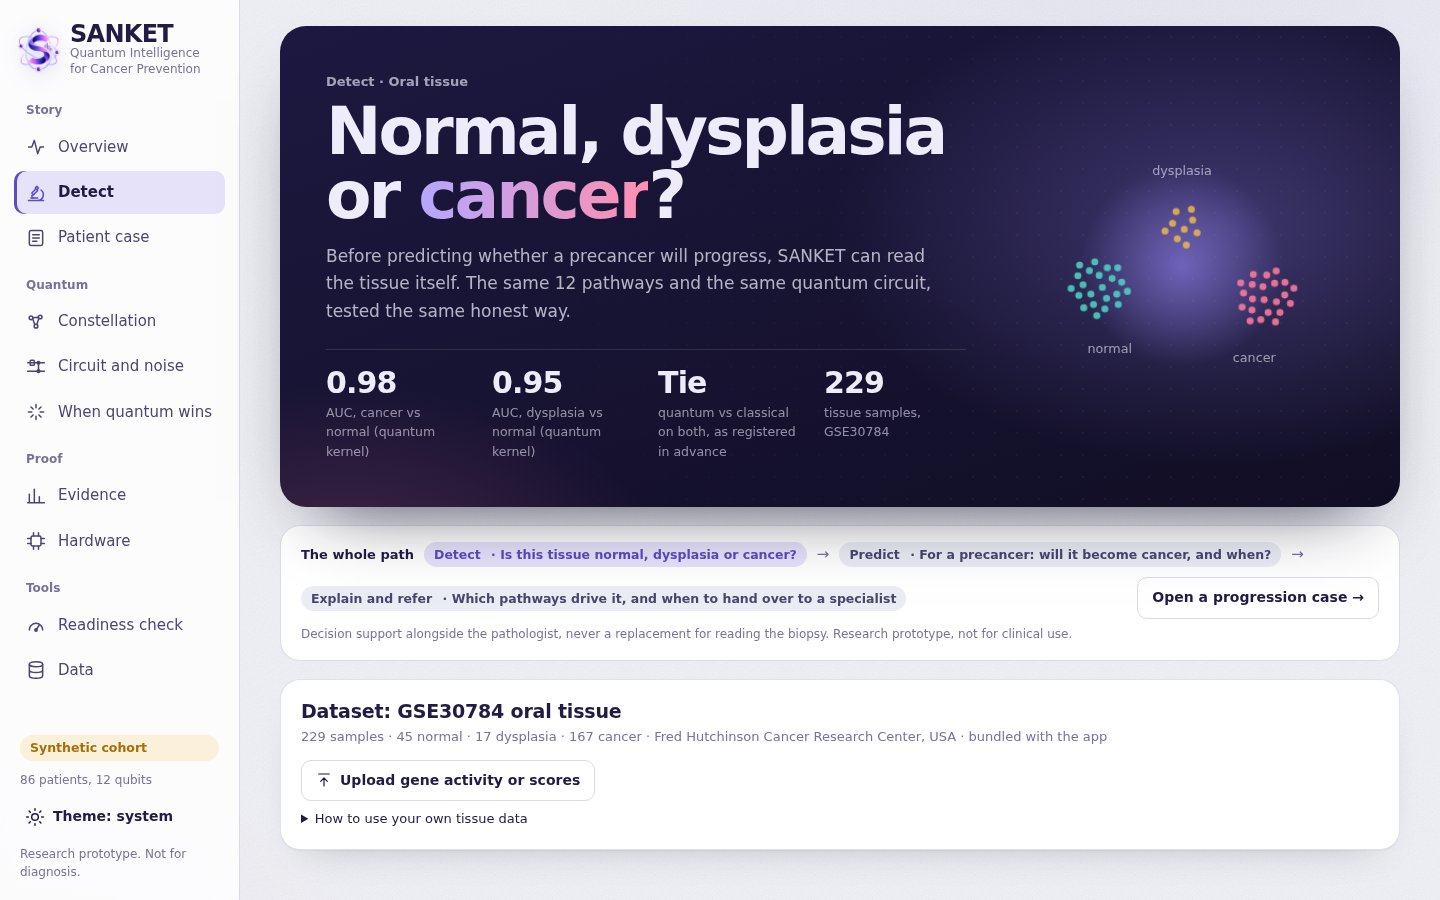
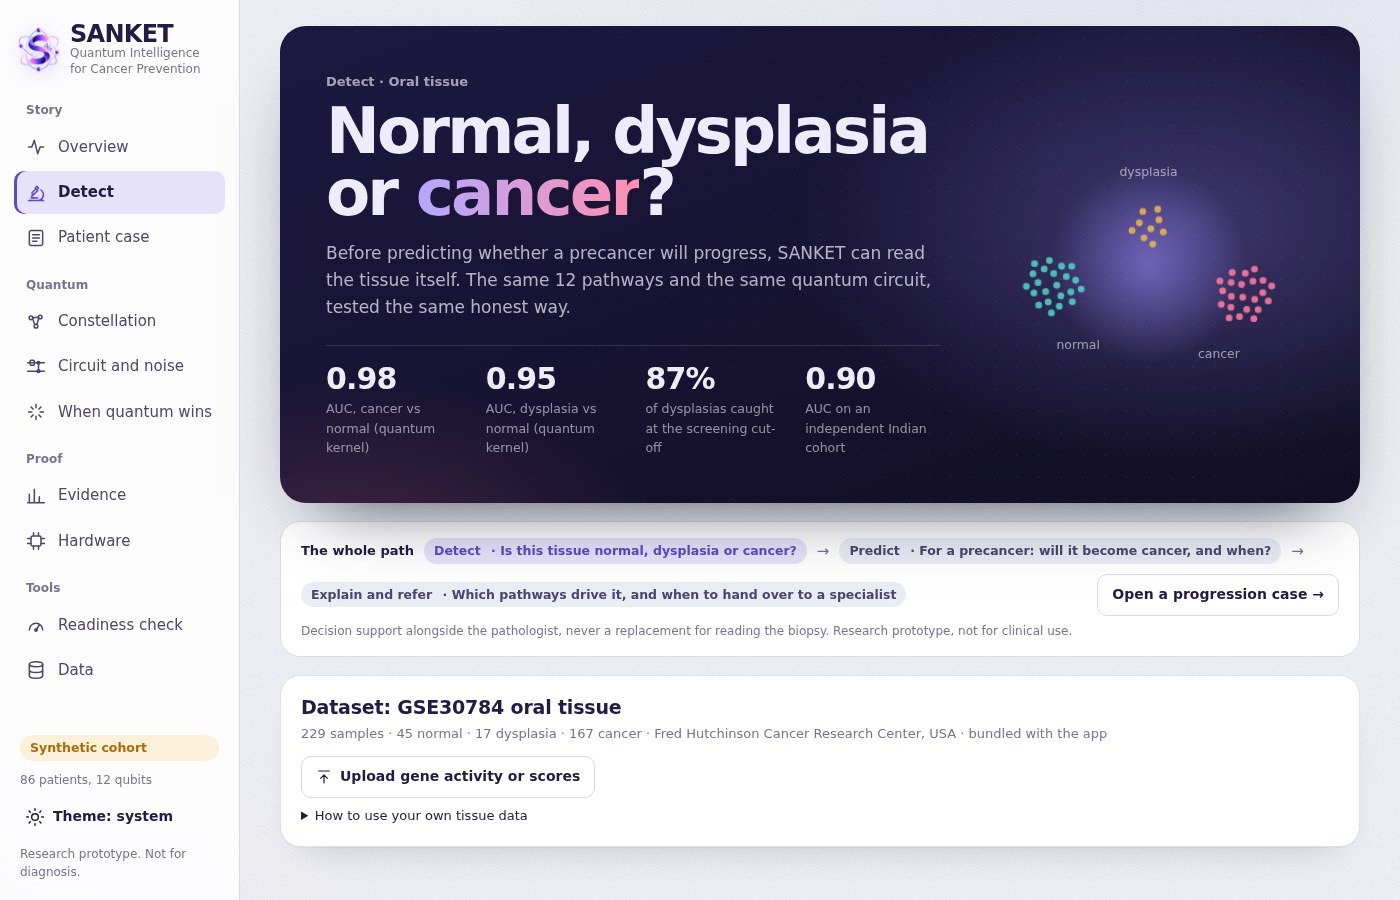
Detect: show declared amendments A1–A3 (screening cut-off, corrected Indian check, class weighting); update README and screenshots

diff --git a/web/src/views/Detect.tsx b/web/src/views/Detect.tsx
@@ -34,6 +34,16 @@ interface DxData {
   genes?: { n: number; coverage: { key: string; found: number; size: number }[] }; // set when scored here from gene activity
 }
 
+type Metrics = { auc: number; sensitivity: number; specificity: number; ppv: number | null; npv: number | null };
+type ModelSet = Record<string, Metrics>;
+/** Declared amendments (docs/osf_oral_diagnosis.md): A2 screening cut-off, A3 class weighting, A1 corrected external check. */
+const SCR = (Object.values(detect.tasks)[0] as unknown as { screening?: ModelSet }).screening
+  ? (Object.fromEntries(Object.entries(detect.tasks).map(([k, t]) => [k, (t as unknown as { screening: ModelSet }).screening])) as Record<string, ModelSet>)
+  : null;
+const BAL = (detect.tasks.oral_cancer_dysplasia as unknown as { balanced?: ModelSet }).balanced ?? null;
+const EXT = (detect.external as unknown as { corrected?: { models: Record<string, Metrics & { auc_ci: [number, number] }>; biology: { pathway: string; train: number; external: number; same: boolean }[]; agree: number } }).corrected ?? null;
+const TARGET = (detect as unknown as { screeningTarget?: number | null }).screeningTarget ?? 0.9;
+
 const BUNDLED: DxData = {
   name: `${detect.source.accession} oral tissue`, source: `${detect.source.institute}, ${detect.source.country}`, bundled: true,
   samples: detect.samples as Sample[], edges: detect.edges as [number, number][], pathways: detect.pathways,
@@ -231,8 +241,8 @@ export default function Detect() {
         stats={data.bundled ? [
           { value: T.oral_cancer_normal.models.proj.auc.toFixed(2), label: "AUC, cancer vs normal (quantum kernel)" },
           { value: T.oral_dysplasia_normal.models.proj.auc.toFixed(2), label: "AUC, dysplasia vs normal (quantum kernel)" },
-          { value: "Tie", label: "quantum vs classical on both, as registered in advance" },
-          { value: S.length, label: `tissue samples, ${detect.source.accession}` },
+          { value: SCR ? pct(SCR.oral_dysplasia_normal.proj.sensitivity) : "Tie", label: SCR ? "of dysplasias caught at the screening cut-off" : "quantum vs classical on both, as registered in advance" },
+          { value: EXT ? EXT.models.proj.auc.toFixed(2) : S.length, label: EXT ? "AUC on an independent Indian cohort" : `tissue samples, ${detect.source.accession}` },
         ] : [
           { value: S.length, label: "samples in your dataset" },
           ...shown.map((d) => ({ value: counts[d], label: d === "u" ? "unlabelled, to estimate" : NAME[d].toLowerCase() })),
@@ -384,7 +394,7 @@ export default function Detect() {
                   </div>
                 </>
               ) : <p className="small muted">Simulating…</p>}
-              <div className="tier tier-intermediate" style={{ marginTop: 10 }}><b>Read this before using pasted scores</b>Scores must be on this dataset's scale: ssGSEA pathway scores standardised with this dataset's means, from the same array type. A sample from another platform or scored on its own will land in the wrong place; the independent check below shows how badly models transfer across platforms. Illustrative only, never a diagnosis.</div>
+              <div className="tier tier-intermediate" style={{ marginTop: 10 }}><b>Read this before using pasted scores</b>Scores must be on this dataset's scale: ssGSEA pathway scores standardised with this dataset's means, from the same array type. A sample from another platform or another dataset's scale will land in the wrong place; the independent check below shows how much the scale matters. Illustrative only, never a diagnosis.</div>
             </div>
           </div>
         ) : <p className="small muted" style={{ margin: 0 }}>Click <b>Start from {s.id}</b> to copy the selected sample's scores into sliders, then move them: for example raise inflammation and EMT in a normal sample and watch its neighbours change.</p>}
@@ -418,14 +428,75 @@ export default function Detect() {
             </div>
             <div className="grid" style={{ gap: 6, marginTop: 10 }}>
               <p className="small" style={{ margin: 0 }}><b>Cancer vs normal</b> works as a ranking and as a yes/no call, for every model. It checks that the pipeline works; nobody expected quantum to win it.</p>
-              <p className="small" style={{ margin: 0 }}><b>Dysplasia vs normal</b> ranks well (AUC {T.oral_dysplasia_normal.models.proj.auc.toFixed(2)}), but at the default threshold the quantum model catches only {pct(T.oral_dysplasia_normal.models.proj.sensitivity)} of dysplasias. A screening threshold set for sensitivity would be needed, and is planned as a declared amendment.</p>
-              <p className="small" style={{ margin: 0 }}><b>Cancer vs dysplasia</b> is not usable yet: with {T.oral_cancer_dysplasia.positives} cancers against {T.oral_cancer_dysplasia.n - T.oral_cancer_dysplasia.positives} dysplasias, every model labels nearly all dysplasias as cancer (quantum specificity {pct(T.oral_cancer_dysplasia.models.proj.specificity)}).</p>
+              <p className="small" style={{ margin: 0 }}><b>Dysplasia vs normal</b> ranks well (AUC {T.oral_dysplasia_normal.models.proj.auc.toFixed(2)}), but at the default threshold the quantum model catches only {pct(T.oral_dysplasia_normal.models.proj.sensitivity)} of dysplasias.{SCR ? <> With the declared screening cut-off it catches <b>{pct(SCR.oral_dysplasia_normal.proj.sensitivity)}</b> and still clears {pct(SCR.oral_dysplasia_normal.proj.specificity)} of normal tissue (below).</> : " A screening threshold set for sensitivity is planned as a declared amendment."}</p>
+              <p className="small" style={{ margin: 0 }}><b>Cancer vs dysplasia</b> is the hard boundary: with {T.oral_cancer_dysplasia.positives} cancers against {T.oral_cancer_dysplasia.n - T.oral_cancer_dysplasia.positives} dysplasias, every model labels nearly all dysplasias as cancer at the default settings (quantum specificity {pct(T.oral_cancer_dysplasia.models.proj.specificity)}).{BAL ? <> Weighting the two classes equally lifts the kernel models to AUC {BAL.proj.auc.toFixed(2)} (exploratory, below).</> : ""}</p>
             </div>
           </Reveal>
 
+          {SCR && (
+            <Reveal className="panel">
+              <div className="row"><div className="h2">Declared amendments</div><span className="spacer" /><span className="chip chip-grey">Written before they were run</span></div>
+              <p className="small" style={{ marginTop: 0 }}><b>A2 · Screening cut-off.</b> In screening, missing a precancer is worse than a false alarm. Within each training fold the cut-off is set to catch at least {pct(TARGET)} of positives on the training samples, then applied unchanged to the held-out fold; the same rule as SANKET's progression referral. Same folds as above.</p>
+              <div className="scroll-x">
+                <table className="table">
+                  <thead><tr><th>Task</th><th>Model</th><th>Sensitivity</th><th>Specificity</th><th>NPV</th><th>PPV</th></tr></thead>
+                  <tbody>
+                    {(Object.keys(T) as (keyof typeof T)[]).flatMap((key) => (["proj", "rbf"] as const).map((m, j) => {
+                      const v = SCR[key][m];
+                      return (
+                        <tr key={key + m}>
+                          <td>{j === 0 ? <b>{T[key].label}</b> : ""}</td><td>{MODEL_NAME[m] ?? m}</td>
+                          <td>{pct(v.sensitivity)}</td><td>{pct(v.specificity)}</td><td>{v.npv == null ? "–" : pct(v.npv)}</td><td>{v.ppv == null ? "–" : pct(v.ppv)}</td>
+                        </tr>
+                      );
+                    }))}
+                  </tbody>
+                </table>
+              </div>
+              <div className="grid" style={{ gap: 6, marginTop: 10 }}>
+                <p className="small" style={{ margin: 0 }}><b>Dysplasia vs normal becomes usable for screening:</b> {pct(SCR.oral_dysplasia_normal.proj.sensitivity)} of dysplasias caught (was {pct(T.oral_dysplasia_normal.models.proj.sensitivity)}), and a "normal" result is right {pct(SCR.oral_dysplasia_normal.proj.npv ?? 0)} of the time.</p>
+                <p className="small" style={{ margin: 0 }}><b>Cancer vs normal</b> already caught {pct(T.oral_cancer_normal.models.proj.sensitivity)} of cancers at the default cut-off, so the rule moves the other way (fewer false alarms, {pct(SCR.oral_cancer_normal.proj.sensitivity)} caught). For screening the default stays the better operating point on this task.</p>
+                <p className="small" style={{ margin: 0 }}><b>Cancer vs dysplasia</b> clears {pct(SCR.oral_cancer_dysplasia.proj.specificity)} of dysplasias instead of {pct(T.oral_cancer_dysplasia.models.proj.specificity)}, but its NPV stays low: still not usable.</p>
+              </div>
+              {BAL && (
+                <>
+                  <p className="small" style={{ marginBottom: 6 }}><b>A3 · Class weighting, cancer vs dysplasia (exploratory).</b> The same task with both classes weighted equally, default cut-off, same folds.</p>
+                  <div className="scroll-x">
+                    <table className="table">
+                      <thead><tr><th>Model</th><th>AUC (registered)</th><th>AUC (weighted)</th><th>Sensitivity</th><th>Specificity</th></tr></thead>
+                      <tbody>
+                        {Object.entries(BAL).map(([m, v]) => (
+                          <tr key={m}><td>{MODEL_NAME[m] ?? m}</td><td>{(T.oral_cancer_dysplasia.models as Record<string, { auc: number }>)[m].auc.toFixed(3)}</td><td><b>{v.auc.toFixed(3)}</b></td><td>{pct(v.sensitivity)}</td><td>{pct(v.specificity)}</td></tr>
+                        ))}
+                      </tbody>
+                    </table>
+                  </div>
+                  <p className="small" style={{ marginBottom: 0 }}>The kernel models, quantum and classical, gain the most and now lead (projected {BAL.proj.auc.toFixed(3)}, RBF {BAL.rbf.auc.toFixed(3)}): a tie, not a quantum win. With {T.oral_cancer_dysplasia.n - T.oral_cancer_dysplasia.positives} dysplasias, about three per test fold, this is a promising signal, not a claim.</p>
+                </>
+              )}
+            </Reveal>
+          )}
+
           <Reveal className="panel">
-            <div className="row"><div className="h2">Independent check: an Indian cohort</div><span className="spacer" /><span className="chip chip-amber">Did not transfer</span></div>
+            <div className="row"><div className="h2">Independent check: an Indian cohort</div><span className="spacer" /><span className={`chip ${EXT ? "chip-teal" : "chip-amber"}`}>{EXT ? "Ranking transfers after correction" : "Did not transfer"}</span></div>
             <p className="small" style={{ marginTop: 0 }}>The cancer-vs-normal models, trained on {detect.source.accession} ({detect.source.institute}, {detect.source.country}), were applied once, unchanged, to {detect.external.accession} from {detect.external.institute?.split(",").slice(-1)[0]?.trim() || detect.external.institute}, {detect.external.city}, {detect.external.country}: {detect.external.positives} cancers and {detect.external.n - detect.external.positives} normals on a different microarray platform ({(detect.external.platform ?? []).join(", ")} vs {detect.source.platform.join(", ")}).</p>
+            {EXT && (
+              <>
+                <p className="small"><b>What went wrong first, and the fix (Amendment A1).</b> The registered check failed: every model called almost everything cancer or almost everything normal. The cause was a scaling error, not biology. gseapy's normalised enrichment score is rescaled across each whole dataset, so the two datasets' scores were on different scales and could not be mapped with the training means. With each dataset standardised on its own (label-free), the ranking transfers. This correction was found after the registered result, so it is reported as a post-hoc correction and the original stays below.</p>
+                <div className="scroll-x">
+                  <table className="table">
+                    <thead><tr><th>Model</th><th>AUC (95% CI, descriptive)</th><th>Sensitivity (cancers)</th><th>Specificity (normals)</th></tr></thead>
+                    <tbody>
+                      {Object.entries(EXT.models).map(([k, v]) => (
+                        <tr key={k}><td>{MODEL_NAME[k] ?? k}</td><td><b>{v.auc.toFixed(2)}</b> <span className="tiny muted">({v.auc_ci[0].toFixed(2)}–{v.auc_ci[1].toFixed(2)})</span></td><td>{pct(v.sensitivity)}</td><td>{pct(v.specificity)}</td></tr>
+                      ))}
+                    </tbody>
+                  </table>
+                </div>
+                <p className="small">The biology agrees across the two countries: cancer moves in the same direction as in {detect.source.accession} for <b>{EXT.agree} of 12 pathways</b>{EXT.biology.filter((b) => !b.same).length ? ` (the exception: ${EXT.biology.filter((b) => !b.same).map((b) => b.pathway).join(", ")})` : ""}. The default cut-off still clears only a few of the {detect.external.n - detect.external.positives} Indian normals, so the ranking transfers but the calibration does not. <b>Calibrating it needs Indian training data from a clinical partner</b>, which is the next step in SANKET's roadmap.</p>
+                <p className="tiny muted" style={{ marginBottom: 6 }}>Registered check (scores on mismatched scales), kept for the record:</p>
+              </>
+            )}
             <div className="scroll-x">
               <table className="table">
                 <thead><tr><th>Model</th><th>Sensitivity (cancers)</th><th>Specificity (normals)</th><th>AUC (descriptive)</th></tr></thead>
@@ -436,7 +507,7 @@ export default function Detect() {
                 </tbody>
               </table>
             </div>
-            <p className="small" style={{ marginBottom: 0 }}>Every model either called almost everything cancer or almost everything normal. The most likely cause is the platform change, but with only {detect.external.n - detect.external.positives} normals nothing firmer can be said. <b>This is why SANKET's roadmap needs Indian training data from a clinical partner</b>, rather than a model trained abroad.</p>
+            {!EXT && <p className="small" style={{ marginBottom: 0 }}>Every model either called almost everything cancer or almost everything normal. The most likely cause is the platform change, but with only {detect.external.n - detect.external.positives} normals nothing firmer can be said. <b>This is why SANKET's roadmap needs Indian training data from a clinical partner</b>, rather than a model trained abroad.</p>}
           </Reveal>
         </>
       ) : (

diff --git a/engine/export_detect.py b/engine/export_detect.py
@@ -1,7 +1,8 @@
 """Bundle the oral diagnosis cohort and its registered results for the app's Detect page.
 
 Reads out/oral_dx_cohort.json, out/oral_dx_external_cohort.json and out/results_classify_oral_*.json (built by
-engine.oral_diagnosis and engine.classify) and writes a compact web/src/data/oral_detect.json.
+engine.oral_diagnosis and engine.classify), plus the declared amendments out/results_amend_a*.json when present (built by
+engine.oral_amendments), and writes a compact web/src/data/oral_detect.json.
 
 Also writes web/src/data/hallmark12.json: the member genes of the 12 Hallmark pathways in config.yaml, which the app
 uses to score uploaded gene-activity files in the browser exactly as engine.pathways does.
@@ -55,6 +56,19 @@ def main():
         tasks[key] = {"label": label, "n": r["n"], "positives": r["positives"], "repeats": r["cv"]["repeats"],
                       "models": {m: {k: round(v[k], 4) for k in keep if k in v} for m, v in r["summary"].items()},
                       "primaryP": round(prim["p"], 4)}
+    r4 = lambda v: round(v, 4) if isinstance(v, float) else ([round(x, 3) for x in v] if isinstance(v, list) else v)
+    metric_keys = ("auc", "sensitivity", "specificity", "ppv", "npv")
+    if (OUT / "results_amend_a2_screening.json").exists():          # Amendment A2: screening threshold
+        a2 = load("results_amend_a2_screening.json")
+        for key, r in a2["tasks"].items():
+            if key in tasks:
+                tasks[key]["screening"] = {m: {k: r4(v.get(k)) for k in metric_keys} for m, v in r["summary"].items()}
+        target = a2.get("target_sensitivity")
+    else:
+        target = None
+    if (OUT / "results_amend_a3_balanced.json").exists():           # Amendment A3: class weighting, cancer vs dysplasia
+        a3 = load("results_amend_a3_balanced.json")
+        tasks["oral_cancer_dysplasia"]["balanced"] = {m: {k: r4(v.get(k)) for k in metric_keys} for m, v in a3["summary"].items()}
     ext = load("results_classify_oral_cancer_normal_external.json")
     geo = ext.get("geo") or {}
     out = {
@@ -67,7 +81,15 @@ def main():
                      "country": geo.get("contact_country"), "platform": geo.get("platform"), "n": ext["n"], "positives": ext["positives"],
                      "models": {m: {k: (round(v[k], 4) if isinstance(v[k], float) else v[k]) for k in ("auc", "sensitivity", "specificity", "auc_ci") if k in v}
                                 for m, v in ext["summary"].items()}},
+        "screeningTarget": target,
     }
+    if (OUT / "results_amend_a1_external.json").exists():           # Amendment A1: corrected external check
+        a1 = load("results_amend_a1_external.json")
+        out["external"]["corrected"] = {
+            "models": {m: {k: r4(v.get(k)) for k in ("auc", "sensitivity", "specificity", "auc_ci")} for m, v in a1["summary"].items()},
+            "biology": [{"pathway": b["pathway"], "train": round(b["diff_train"], 3), "external": round(b["diff_external"], 3),
+                         "same": b["same_direction"]} for b in a1["biology"]],
+            "agree": a1["biology_agree"]}
     path = ROOT / "web/src/data/oral_detect.json"
     path.write_text(json.dumps(out, separators=(",", ":")), encoding="utf-8")
     print(f"wrote {path} ({path.stat().st_size // 1024} KB, {len(out['samples'])} samples)")
